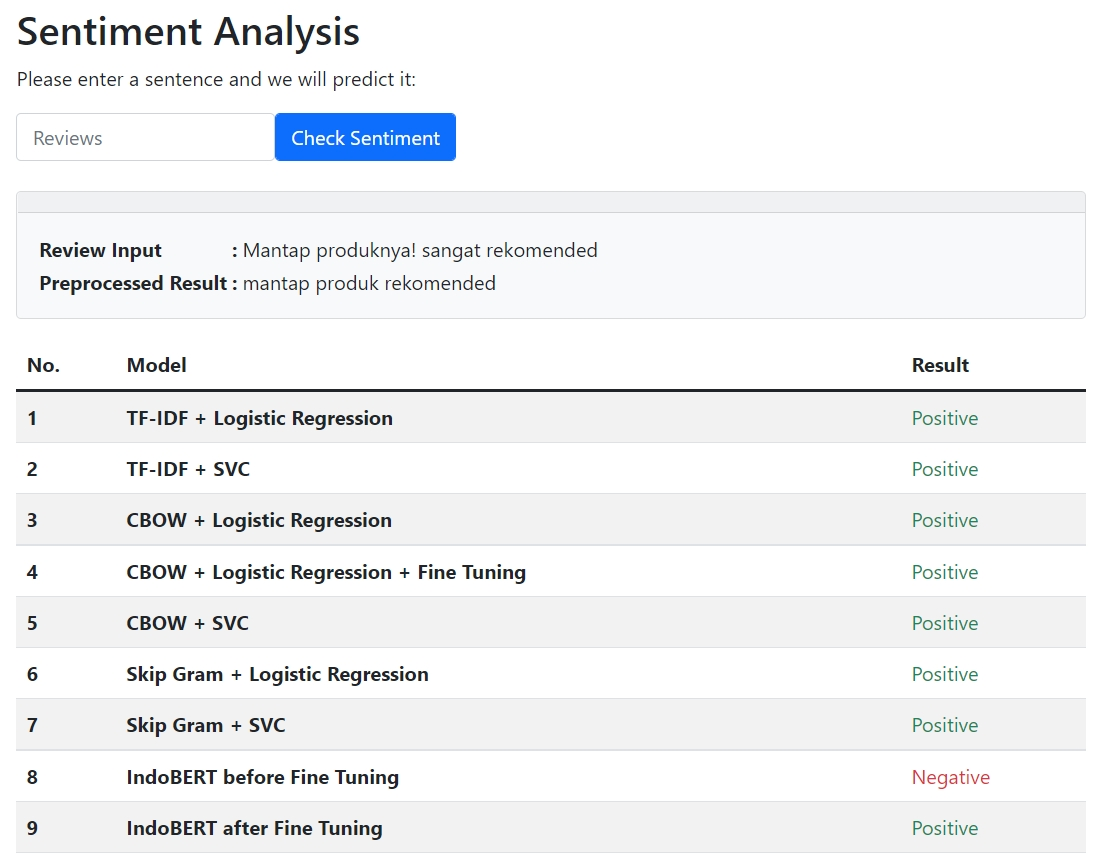
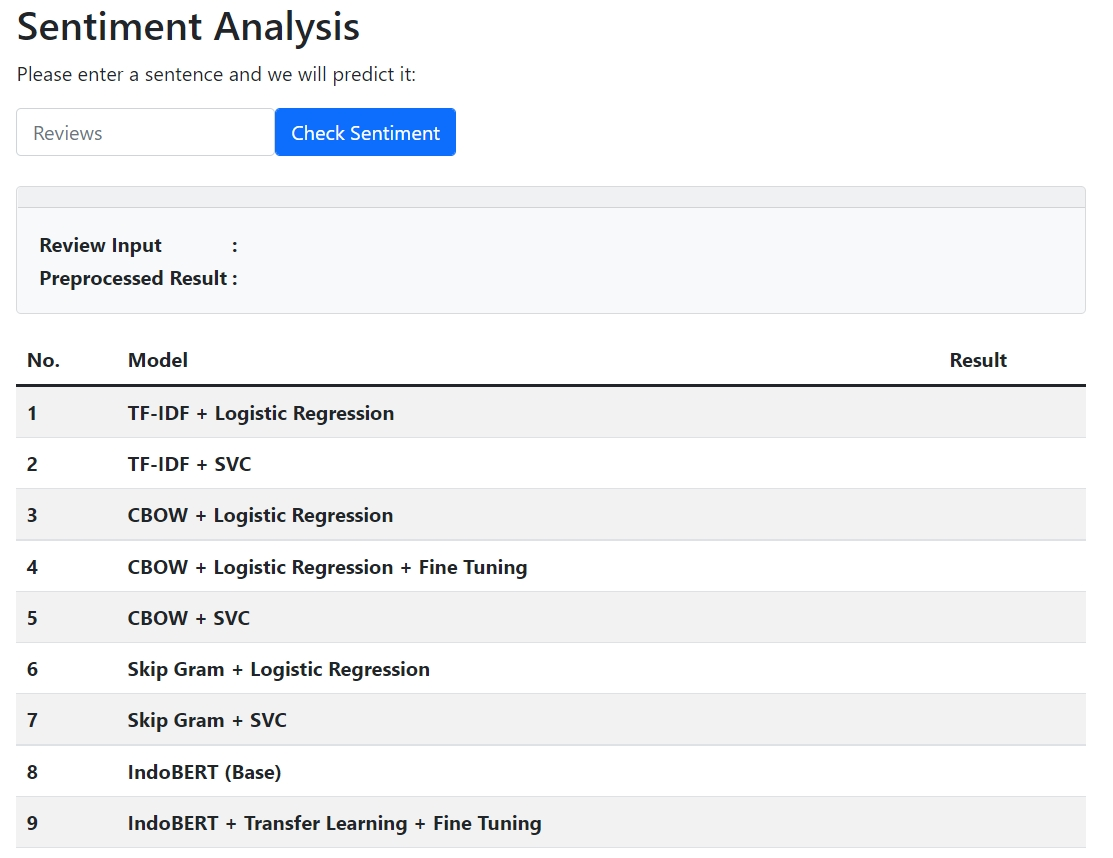
update html and screenshots

diff --git a/Sentiment Analysis/templates/index.html b/Sentiment Analysis/templates/index.html
@@ -131,12 +131,12 @@
                   </tr>
                   <tr>
                     <th scope="row">8</th>
-                    <th>IndoBERT before Fine Tuning</th>
+                    <th>IndoBERT (Base)</th>
                     <td>{{ res8 }}</td>
                   </tr>
                   <tr>
                     <th scope="row">9</th>
-                    <th>IndoBERT after Fine Tuning</th>
+                    <th>IndoBERT + Transfer Learning + Fine Tuning</th>
                     <td>{{ res9 }}</td>
                   </tr>
                 </tbody>
